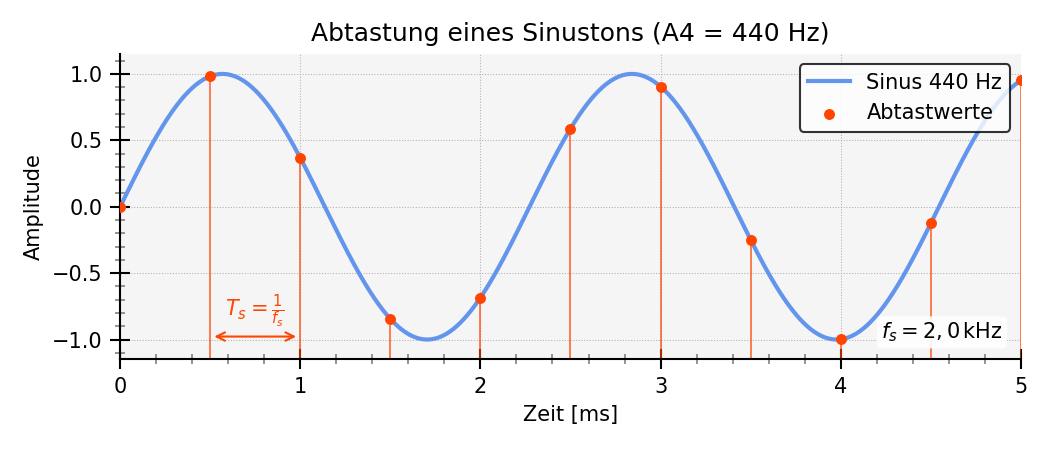
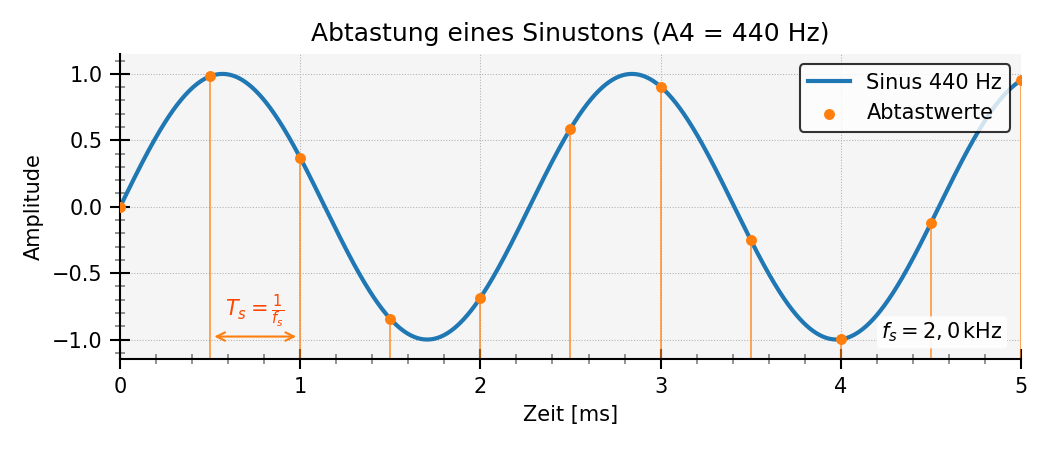
Add color constants for improved plot styling and update plot colors in audio scripts

diff --git a/source/python/rezepte/audio/toene_erzeugen_code/plot_abtasten.py b/source/python/rezepte/audio/toene_erzeugen_code/plot_abtasten.py
@@ -1,7 +1,7 @@
 from pathlib import Path
 import numpy as np
 import matplotlib.pyplot as plt
-from beautyplot import beautyplot
+from beautyplot import beautyplot, COLORS
 
 # -- Projekt-Root finden (Marker) ----------
 def find_project_root(start: Path | None = None) -> Path:
@@ -41,15 +41,15 @@ x_s = amp * np.sin(2 * np.pi * f0 * t_s)          # Werte auf dem Sinus
 fig, ax = plt.subplots(figsize=(7, 3), dpi=150)
 
 # „Analoger“ Wellenzug:
-ax.plot(t * 1000, x, lw=2, label="Sinus 440 Hz", color="cornflowerblue")
+ax.plot(t * 1000, x, lw=2, label="Sinus 440 Hz", color=COLORS["blue"])
 
 # Senkrechte Linien: von der minimalen Amplitude (ymin) bis zum jeweiligen Sinuswert
 ymin, ymax = -1.15 * amp, 1.15 * amp
 for ts, xs_val in zip(t_s, x_s):
-    ax.vlines(ts * 1000, ymin, xs_val, linewidth=0.8, color="orangered", alpha=0.8)
+    ax.vlines(ts * 1000, ymin, xs_val, linewidth=0.8, color=COLORS["orange"], alpha=0.8)
 
 # Punkte auf dem Wellenzug an den Abtaststellen:
-ax.scatter(t_s * 1000, x_s, s=18, zorder=3, label="Abtastwerte", color="orangered")
+ax.scatter(t_s * 1000, x_s, s=18, zorder=3, label="Abtastwerte", color=COLORS["orange"])
 
 # Bemaßung zwischen zwei benachbarten Abtastlinien:
 if len(t_s) >= 2:
@@ -58,7 +58,7 @@ if len(t_s) >= 2:
     # Doppelpfeil:
     ax.annotate("",
                 xy=(t0, y_dim), xytext=(t1, y_dim),
-                arrowprops=dict(arrowstyle="<->", lw=1.0, color="orangered"))
+                arrowprops=dict(arrowstyle="<->", lw=1.0, color=COLORS["orange"]))
     # Text mittig über der Maßlinie:
     ts_ms = (t1 - t0)
     ax.text((t0 + t1) / 2, y_dim + 0.02 * (ymax - ymin),

diff --git a/source/conf.py b/source/conf.py
@@ -90,3 +90,21 @@ mermaid.initialize({
     securityLevel: "loose"  // erlaubt Links/HTML im Diagramm (vorsichtig verwenden!)
 });
 """
+
+# -- Farben ------------------------------------------------------------------
+mathjax3_config = {
+    "loader": {"load": ["[tex]/color"]},
+    "tex": {
+        "packages": {"[+]": ["color"]},
+        "macros": {
+            "red":    ["{\\color[RGB]{214,39,40} #1}", 1],     # D62728
+            "blue":   ["{\\color[RGB]{31,119,180} #1}", 1],    # 1F77B4
+            "green":  ["{\\color[RGB]{44,160,44} #1}", 1],     # 2CA02C
+            "orange": ["{\\color[RGB]{255,127,14} #1}", 1],    # FF7F0E
+            "purple": ["{\\color[RGB]{148,103,189} #1}", 1],   # 9467BD
+            "cyan":   ["{\\color[RGB]{23,190,207} #1}", 1],    # 17BECF
+            "teal":   ["{\\color[RGB]{42,161,152} #1}", 1],    # 2AA198
+            "gray":   ["{\\color[RGB]{110,110,110} #1}", 1],   # 6E6E6E
+        },
+    },
+}

diff --git a/source/python/rezepte/audio/toene_erzeugen_code/plot_tone_A4.py b/source/python/rezepte/audio/toene_erzeugen_code/plot_tone_A4.py
@@ -1,7 +1,7 @@
 from pathlib import Path
 import numpy as np
 import matplotlib.pyplot as plt
-from beautyplot import beautyplot
+from beautyplot import beautyplot, COLORS
 
 # -- Projekt-Root finden (Marker) ----------
 def find_project_root(start: Path | None = None) -> Path:
@@ -33,7 +33,7 @@ ymin, ymax = -1.15 * amp, 1.15 * amp
 
 # -- Plot ---
 fig, ax = plt.subplots(1, 1, figsize=(6, 3))
-ax.plot(t * 1000, x, linewidth=2, color="cornflowerblue")
+ax.plot(t * 1000, x, linewidth=2, color=COLORS["blue"])
 ax.set(title="Kammerton A4 (440 Hz) – Zeitbereich", xlabel="Zeit [ms]", ylabel="Amplitude")
 ax.set_ylim(ymin, ymax)
 ax.set_xlim(0., 5.)

diff --git a/source/python/rezepte/audio/toene_erzeugen_code/beautyplot.py b/source/python/rezepte/audio/toene_erzeugen_code/beautyplot.py
@@ -4,6 +4,17 @@ wird später durch das Modul Beautyplot ersetzt.
 Ein Modul, welches auf Basis von Matplotlib schönere Layouteinstellungen setzt.
 """
 
+COLORS = {
+    "red":    "#D62728",
+    "blue":   "#1F77B4",
+    "green":  "#2CA02C",
+    "orange": "#FF7F0E",
+    "purple": "#9467BD",
+    "cyan":   "#17BECF",
+    "teal":   "#2AA198",
+    "gray":   "#6E6E6E",
+}
+
 def beautyplot(fig, ax):
     ax.tick_params(        # Hauptticks anpassen
         axis="both",       # Sowohl x- als auch y-Achse
